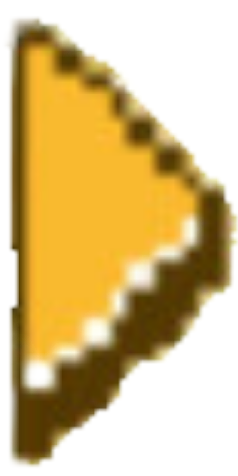
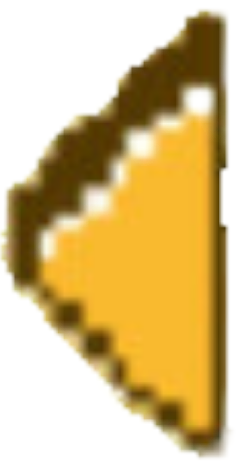
updates

diff --git a/src/GamePanel.java b/src/GamePanel.java
@@ -40,7 +40,7 @@ public class GamePanel extends JPanel implements Runnable, KeyListener, ActionLi
 	public RoundWinner roundWinner;
 
 	public Image logo, menubg, playbtn, authors, settings, menu, mint, sound, cross, playerControls, ming, smokeyb,
-			sorbetMenu, arrow, arrow2, icecream, snow, backbtn, scores, charselection, exitgame;
+			sorbetMenu, arrowLeft, arrowRight, icecream, snow, backbtn, scores, charselection, exitgame, char1, char2;
 
 	Image[] movementPics = new Image[3];
 	{
@@ -51,7 +51,7 @@ public class GamePanel extends JPanel implements Runnable, KeyListener, ActionLi
 
 	// booleans for certain key input
 	boolean playGame, exitGame, cornerControls, mainMenu, controls, drawBtn, icecream1, icecream2, icecream3, icecream4,
-			scoreBoard, continueBtn, level1, level2, nextLevel, nextLevel2, returnMain;
+			scoreBoard, continueBtn, level1, level2, nextLevel, nextLevel2, returnMain, selectionMenu;
 
 	static boolean audio;
 
@@ -97,6 +97,7 @@ public class GamePanel extends JPanel implements Runnable, KeyListener, ActionLi
 
 		// set game condition booleans
 		playGame = false;
+		selectionMenu = false;
 		level1 = true;
 		level2 = false;
 		nextLevel = false;
@@ -372,7 +373,7 @@ public class GamePanel extends JPanel implements Runnable, KeyListener, ActionLi
 
 				// display starter screen for user to progress to main menu
 
-				if (!playGame & btnX >= 250 && btnX <= 550 && btnY >= 565 && btnY <= 640) {
+				if (!playGame && !selectionMenu && btnX >= 250 && btnX <= 550 && btnY >= 565 && btnY <= 640) {
 
 					mainMenu = true;
 					playGame = false;
@@ -431,7 +432,8 @@ public class GamePanel extends JPanel implements Runnable, KeyListener, ActionLi
 				// Display Level 1 of game
 				if (mainMenu && btnX >= 180 && btnX <= 760 && btnY >= 350 && btnY <= 410) {
 
-					playGame = true;
+					playGame = false; //change to true after done char menu
+					selectionMenu = true;
 					level1 = true;
 					level2 = false;
 					returnMain = false;
@@ -589,6 +591,36 @@ public class GamePanel extends JPanel implements Runnable, KeyListener, ActionLi
 			}
 			mouseInput(); // detects mouse input
 		}
+		
+		if (selectionMenu) {
+			
+			//character selection menu 
+			g.drawImage(menubg, 0, 0, GAME_WIDTH, GAME_HEIGHT, null); // draw background image to screen
+			
+			//draw character selection menu for player 1
+			
+			char1 = Toolkit.getDefaultToolkit().getImage("player1.png"); // create image
+
+			g.drawImage(char1, 15, 70, 380, 350, null); // draw image to screen
+			//draw character selection menu for player 2
+			
+			char2 = Toolkit.getDefaultToolkit().getImage("player2.png"); // create image
+
+			g.drawImage(char2, 400, 70, 380, 350, null); // draw image to screen
+			
+	//draw arrows to move menu 
+			
+			arrowLeft = Toolkit.getDefaultToolkit().getImage("arrow.png"); // create image
+
+			g.drawImage(arrowLeft, 165, 580, 50, 50, null); // draw image to screen
+			
+			arrowRight = Toolkit.getDefaultToolkit().getImage("arrow2.png"); // create image
+
+			g.drawImage(arrowRight, 50, 215, 50, 50, null); // draw image to screen
+
+			//add hover effects to red arrow 
+			//add gif 
+		}
 
 		if (controls) { // display player controls on screen
 
@@ -612,7 +644,16 @@ public class GamePanel extends JPanel implements Runnable, KeyListener, ActionLi
 
 			exitgame = Toolkit.getDefaultToolkit().getImage("exit-game.gif"); // create image
 
-			g.drawImage(exitgame, 75, 10, 500, 550, null); // draw image to screen
+			g.drawImage(menubg, 0, 0, GAME_WIDTH, GAME_HEIGHT, null); // draw background image to screen
+			
+			mainMenu = false;
+			scoreBoard = false;
+			playGame = false;
+			level1 = false;
+			level2 = false;
+			controls = false;
+			
+			g.drawImage(exitgame, 125, 50, 550, 600, null); // draw image to screen
 
 			// Start new thread to implement runnable interface to delay and terminate game
 						new Thread(new Runnable() {
@@ -630,22 +671,10 @@ public class GamePanel extends JPanel implements Runnable, KeyListener, ActionLi
 								// Performs code asynchronously in Event dispatcher thread
 								SwingUtilities.invokeLater(() -> {
 
-									//System.exit(0); // Terminate the program
+									System.exit(0); // Terminate the program
 								});
 							}
 						}).start(); // begins execution of thread
-
-		/*	try { // catches any error and adds a 2 second delay
-
-				Thread.sleep(2000);
-
-			} catch (InterruptedException e) {
-
-				e.printStackTrace();
-
-			} // game ends after 2 seconds
-
-			System.exit(0); // force program to end */
 		}
 
 		if (scoreBoard) { // display score board - will update with saved high scores

diff --git a/src/Banana.java b/src/Banana.java
@@ -6,36 +6,23 @@
 
 //import packages
 import java.awt.*;
-import java.awt.image.BufferedImage;
-import java.io.IOException;
-
-import javax.imageio.ImageIO;
 
 // extends Rectangle because drawing and managing collisions is easy
 public class Banana extends Rectangle {
 
 	private static final long serialVersionUID = 1L;
 
-	public BufferedImage bananaImg;
+	public Image bananaImg;
 
 	// constructor creates banana at given location with given dimensions
 	public Banana(int x, int y) {
 
 		super(x, y, 50, 50);
-		getIcon();
+
+		bananaImg = Toolkit.getDefaultToolkit().getImage("Banana.gif"); //get image for banana graphic
 
 	}
-
-	// this method is used to get the image from source folder
-	public void getIcon() {
-		try {
-
-			bananaImg = ImageIO.read(getClass().getResourceAsStream("/Banana.png"));
-		} catch (IOException e) {
-			e.printStackTrace();
-		}
-	}
-
+	
 	// draws the current location of the banana to the screen
 	public void draw(Graphics g) {
 

diff --git a/src/GameFrame.java b/src/GameFrame.java
@@ -19,6 +19,7 @@ public class GameFrame extends JFrame {
 		// JFrame setup for window
 		panel = new GamePanel(); // run GamePanel constructor
 		this.add(panel);
+		
 		this.setTitle("Bad Ice Cream"); // set title for frame
 
 		this.setResizable(false); // frame can't change size
